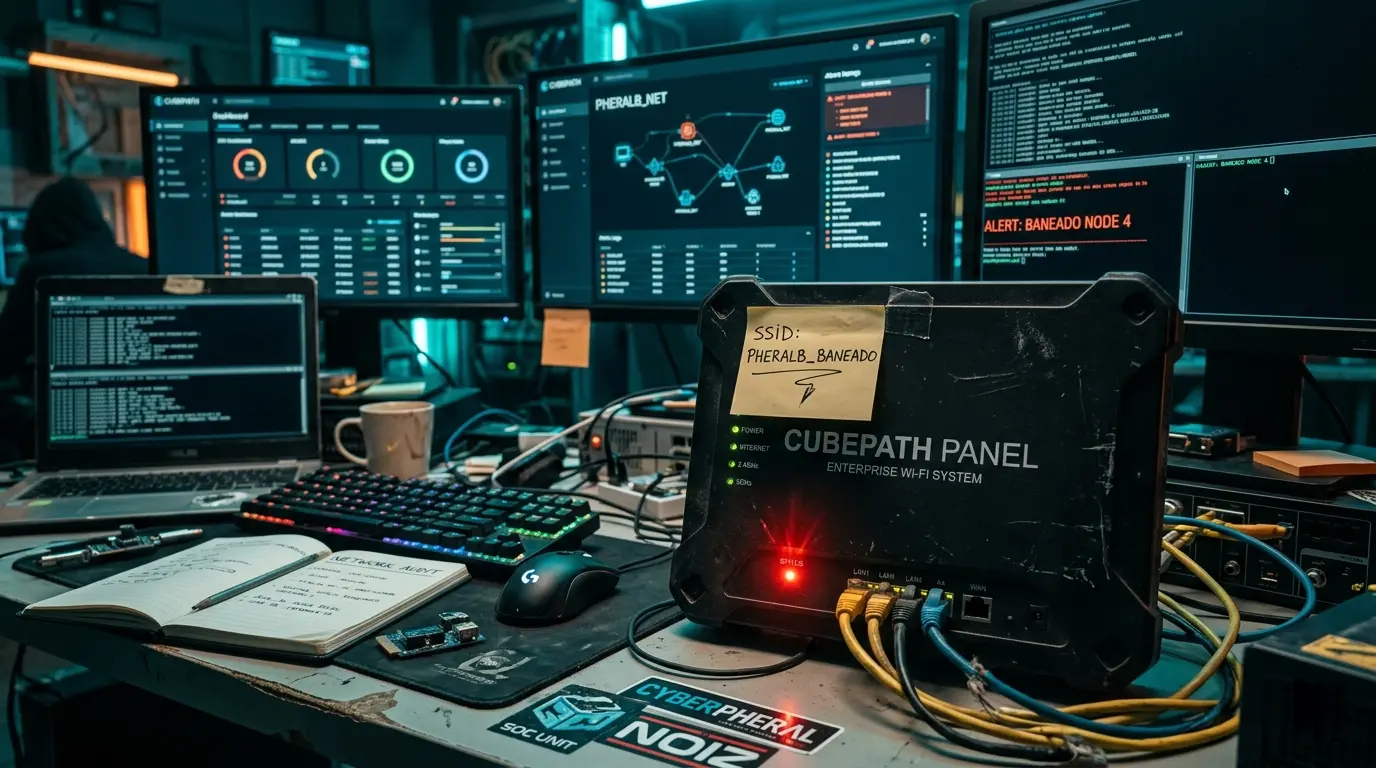
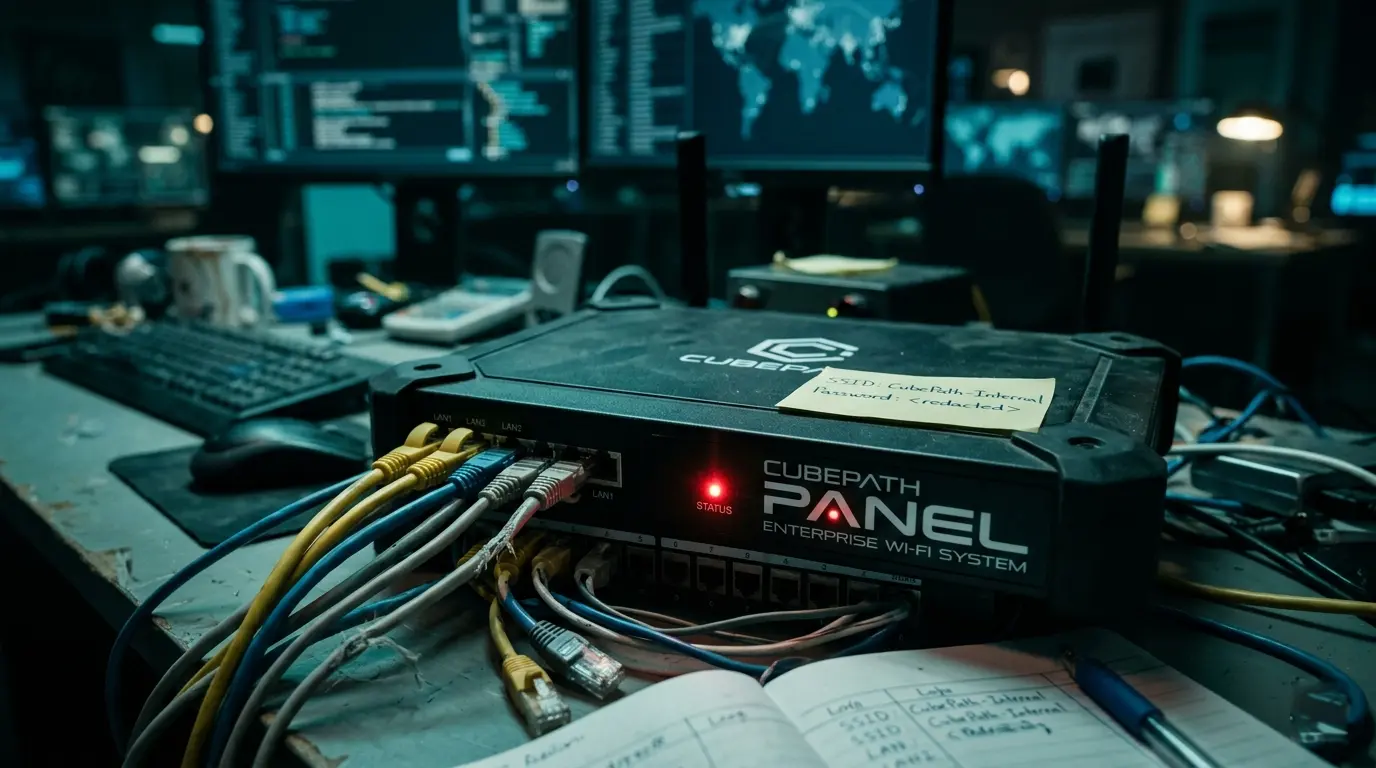
feat: actualizar SSID en la configuración de red y mejorar instrucciones en README.md

diff --git a/src/data/mock/mock-filesystem.ts b/src/data/mock/mock-filesystem.ts
@@ -100,7 +100,7 @@ Hoy es mi primer día de trabajo y ya me metí en problemas... el panel interno 
         type: "text",
         content: `CONFIG DE RED
 
-SSID: PHERALB_BANEADO
+SSID: CubePath-Internal
 PASSWORD: ********
 STATUS: PENDING SETUP
 

diff --git a/README.md b/README.md
@@ -16,9 +16,9 @@ _Hackea el sistema. Resuelve el caso. Un simulador inmersivo de escritorio donde
 
 > [CaseShell | The Ultimate Terminal Puzzle](https://wawa-cases-wickz-hi2ufv-f7affe-157-254-174-56.traefik.me/)
 
-### ⚠ A la hora de entrar a la página te saldrá **La conexión no es privada**, esto se debe a que es un **dominio gratis** proporcionado por **Dokploy**, por lo tanto no tiene certificado SSL. Esto NO significa que la página no es segura.
+⚠ A la hora de entrar a la página te saldrá **La conexión no es privada**, esto se debe a que es un **dominio gratis** proporcionado por **Dokploy**, por lo tanto no tiene certificado SSL. Esto NO significa que la página no es segura.
 
-![CAP 10](https://i.imgur.com/WySbG6O.png)
+> Debes darle en Más Información (o parecido) y en continuar a la página.
 
 ## 💡 ¿De qué trata?
 
